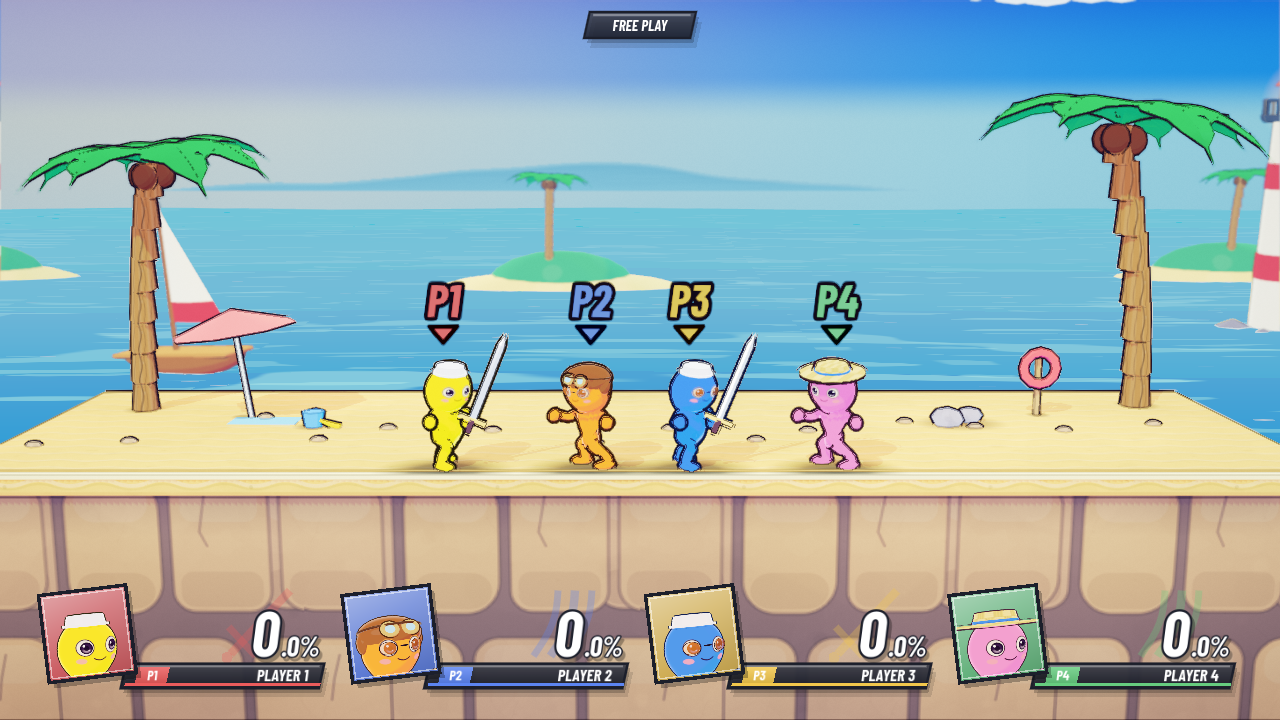
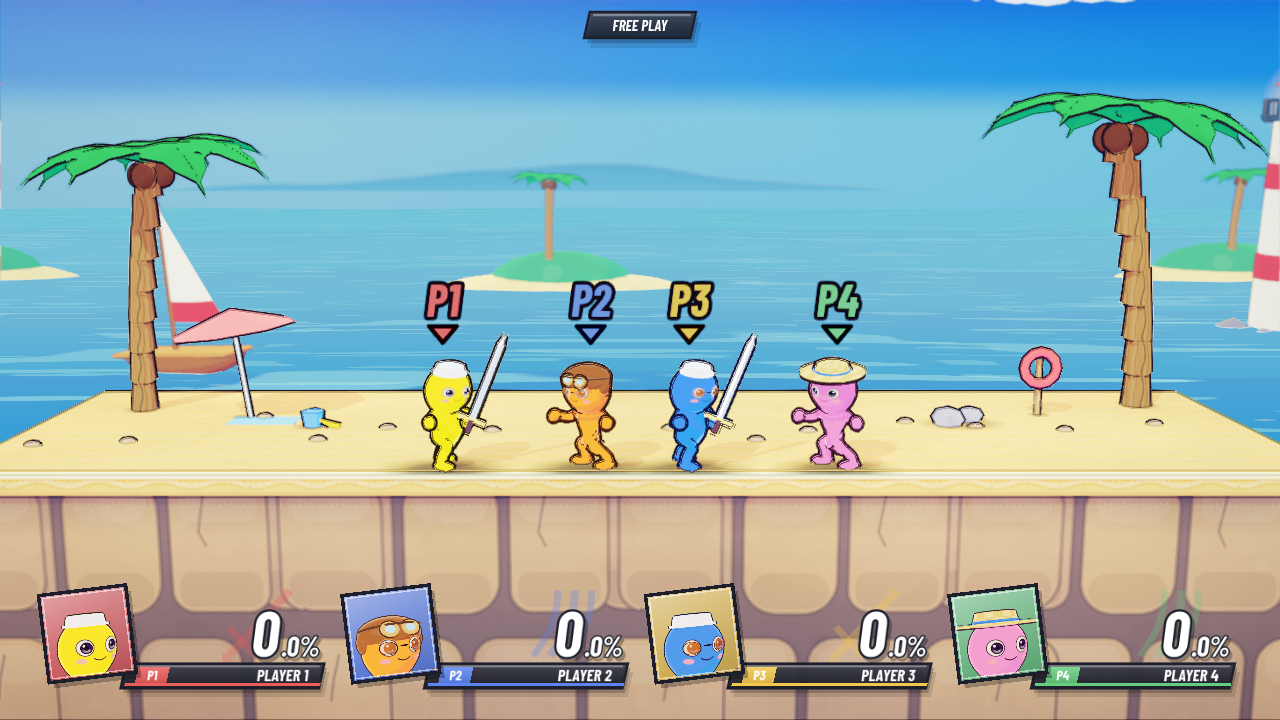
Beach horizon blue to the sea (no warm band); round trees on tapered, rooted trunks

diff --git a/docs/ART_PIPELINE.md b/docs/ART_PIPELINE.md
@@ -873,6 +873,8 @@ stage its own identity). `docs/screenshots/meadow_day_sky_islands.png`, `meadow_
   ocean `haze_max` 0.07, a lighter mist). `docs/screenshots/beach_vivid.png`.
 - **Triple Tier**: its sunset kept, the fog lifted (STYLES sunset `haze_max` 0.1, mists about half), so the mesas keep their strata
   colours against the sky. `canyon_clear.png`.
+- Flat Island's horizon: the warm glow there washed a pale band over the sea; now a faint white one (0.15) over a bluer horizon.
+- The meadow's round trees stand on tapering, slightly bowed trunks with flared roots (`trunk_mesh`), not straight cylinders.
 - **Skyline** left as it is: a dark, moody stage where the fighters already stand out (the plan: keep a dark stage's mood).
 - Look bench 0.87.
 
